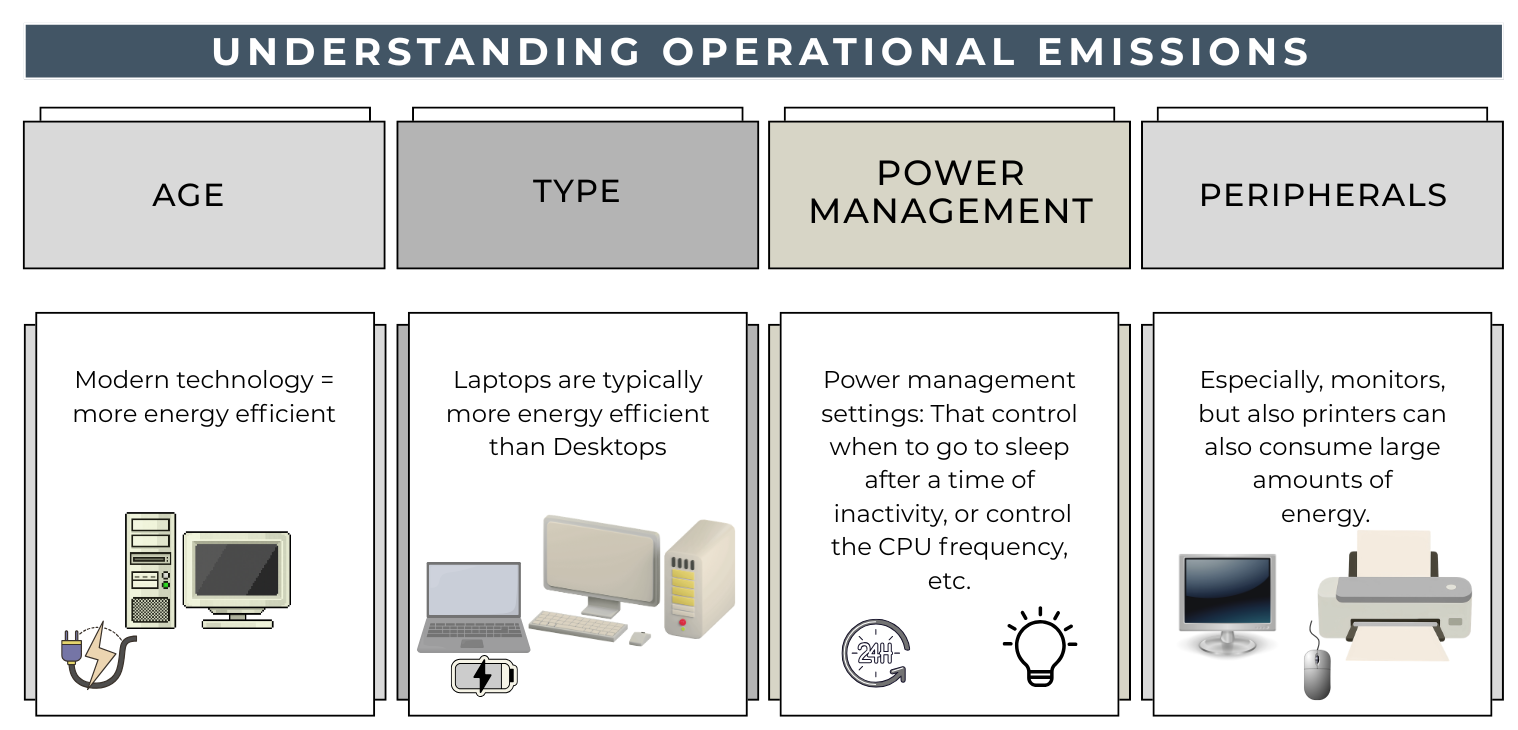
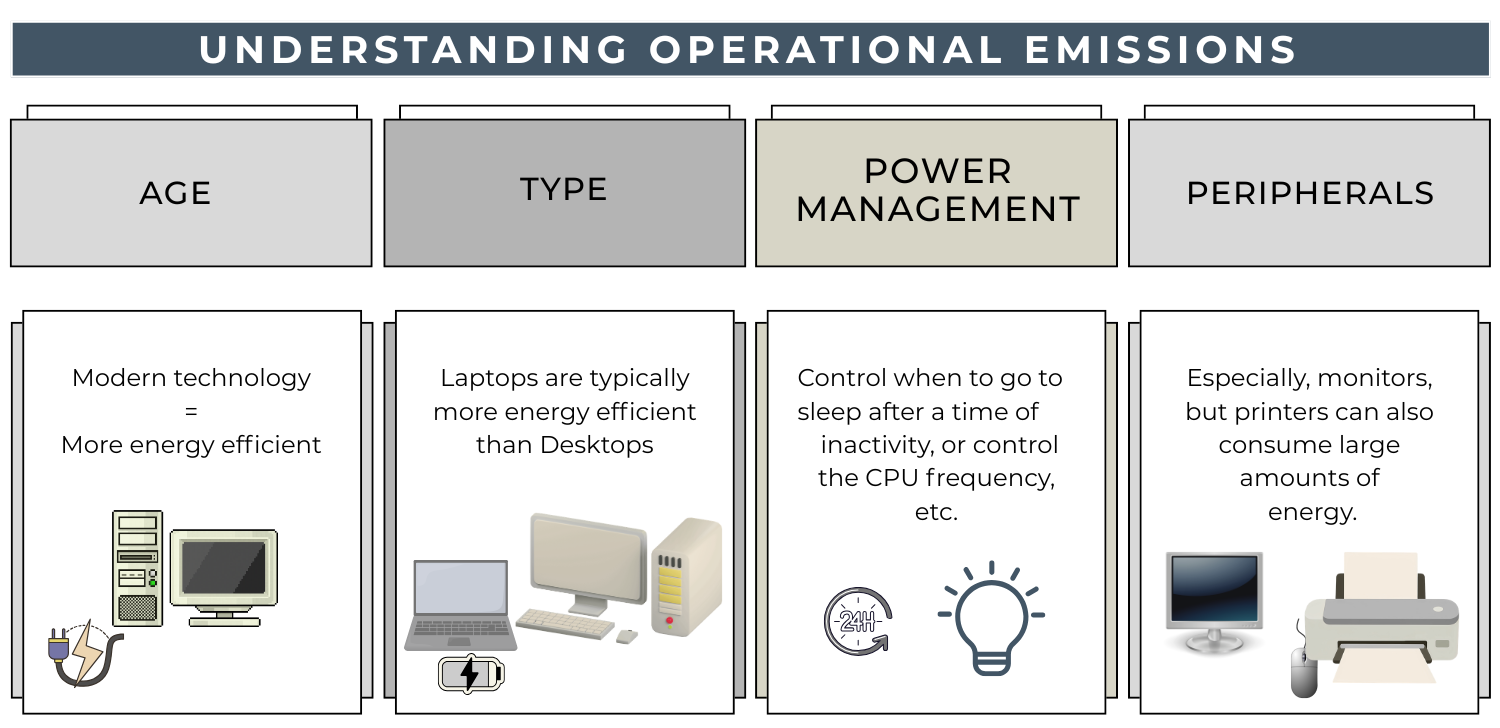
update figures

diff --git a/episodes/03_activities.md b/episodes/03_activities.md
@@ -87,7 +87,7 @@ CPUs, GPUs and memory will
 draw additional electricity -> cooling systems may have to work harder)
 
 <!-- markdownlint-disable-next-line line-length -->
-![Factors that affect operational emissions](fig/ep3_operational_emissions.png){alt='Factors that affect operational emissions'}
+![Factors that affect the operational emissions associated with a device.](fig/ep3_operational_emissions.png){alt='Factors that affect operational emissions including age, type, power management settings and peripherals.'}
 
 :::::::::::::::::::::::::: callout
 
@@ -164,7 +164,9 @@ out its embodied carbon emissions.
 #### Operational Emissions
 
 <!-- markdownlint-disable-next-line line-length -->
-![Ways to measure operational carbon emissions](fig/ep3_carbon_estimations.png){alt='Calculating operational emissions'}
+![Ways to measure the operational carbon emissions associated with a device, including direct measurement
+ and estimation methods.](fig/ep3_carbon_estimations.png){alt='Ways to
+calculate carbon emissions.'}
 
 The most direct and accurate option to get the idle energy usage of a consumer device is
 to use a plug in power meter. There are many models, but most will provide both the
@@ -287,7 +289,8 @@ equipment and benefit from economies of scale. They also have additional emissio
 sources beyond the individual servers they house.
 
 <!-- markdownlint-disable-next-line line-length -->
-![Data Centers Carbon Emissions](fig/ep3_datacenter.png){alt='Embdied and operational emissions of data centers'}
+![Data Centers Carbon Emissions Sources](fig/ep3_datacenter.png){alt='Sources of embodied and operational
+carbon emissions for data centers'}
 
 Data centre embodied emissions:
 
